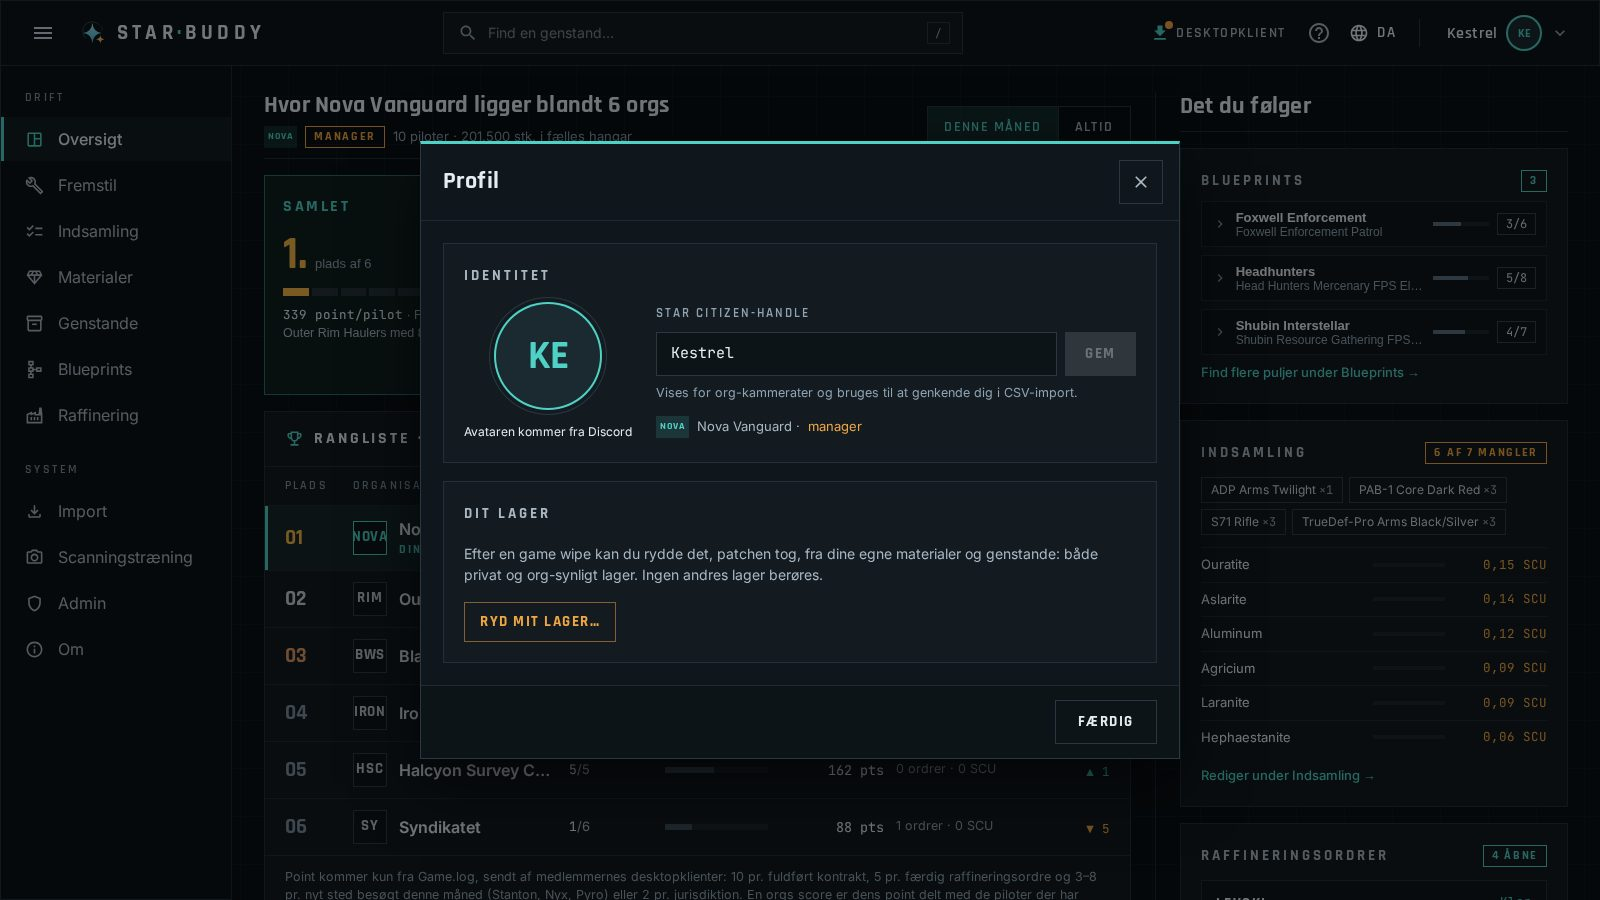
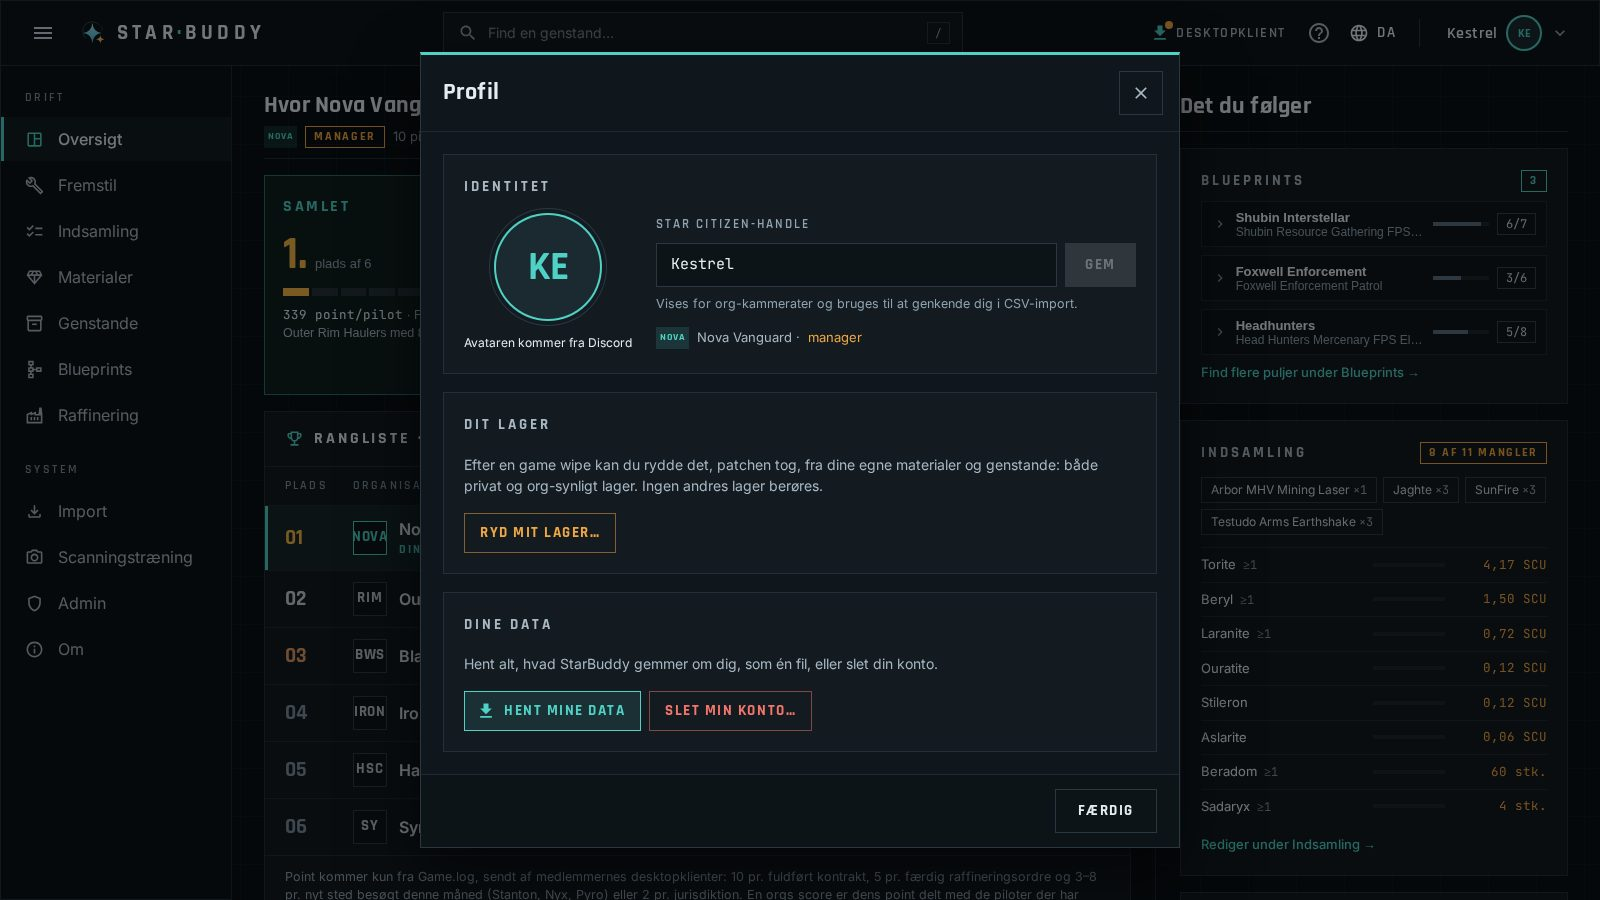
Profile: download my data, and delete my account
GET /api/me/export returns everything kept about the member as one JSON
file, without secrets. DELETE /api/me (confirm: DELETE) removes the
account and all that is theirs, screenshots on disk included, and asks
UDI to delete their StarLabels/StarConfig settings. Additive API only.
Help en+da and the profile screenshot follow.

Claude-Session: https://claude.ai/code/session_01N8m5xeVdG9FyChw6HwAHkV

diff --git a/frontend/src/components/YourDataSection.tsx b/frontend/src/components/YourDataSection.tsx
@@ -1,0 +1,93 @@
+import { useState } from 'react'
+import { useMutation } from '@tanstack/react-query'
+import { Trans, useTranslation } from 'react-i18next'
+import Alert from '@mui/material/Alert'
+import Box from '@mui/material/Box'
+import Button from '@mui/material/Button'
+import Dialog from '@mui/material/Dialog'
+import DialogActions from '@mui/material/DialogActions'
+import DialogContent from '@mui/material/DialogContent'
+import DialogContentText from '@mui/material/DialogContentText'
+import DialogTitle from '@mui/material/DialogTitle'
+import TextField from '@mui/material/TextField'
+import Typography from '@mui/material/Typography'
+import DownloadIcon from '@mui/icons-material/Download'
+import { api } from '../lib/api'
+import { hud } from '../theme'
+import { HudPanel } from './hud'
+
+/** The word the player must type to confirm. Not localized on purpose, as for clearing stock. */
+const CONFIRM_WORD = 'DELETE'
+
+/**
+ * The member's own data: everything StarBuddy keeps about them as one JSON
+ * file, or the whole account deleted.
+ */
+export function YourDataSection() {
+  const { t } = useTranslation()
+  const [open, setOpen] = useState(false)
+  const [confirmText, setConfirmText] = useState('')
+
+  const exportData = useMutation({
+    mutationFn: async () => {
+      const res = await api.get<Blob>('/api/me/export', { responseType: 'blob' })
+      const name = /filename="([^"]+)"/.exec(String(res.headers['content-disposition'] ?? ''))?.[1] ?? 'starbuddy.json'
+      const url = URL.createObjectURL(res.data)
+      const a = document.createElement('a')
+      a.href = url
+      a.download = name
+      a.click()
+      URL.revokeObjectURL(url)
+    },
+  })
+
+  const remove = useMutation({
+    mutationFn: async () => api.delete('/api/me', { data: { confirm: CONFIRM_WORD } }),
+    // Signed out with the account: start over on the sign-in page.
+    onSuccess: () => window.location.assign('/'),
+  })
+
+  const close = () => {
+    setOpen(false)
+    setConfirmText('')
+  }
+
+  return (
+    <HudPanel title={t('yourData.title')} component="h3" id="pm-data" raised>
+      <Typography variant="body2" sx={{ color: hud.textMuted, lineHeight: 1.55 }}>
+        {t('yourData.help')}
+      </Typography>
+      {exportData.isError && <Alert severity="error">{t('yourData.exportError')}</Alert>}
+      <Box sx={{ display: 'flex', gap: 1, flexWrap: 'wrap' }}>
+        <Button variant="outlined" startIcon={<DownloadIcon />} onClick={() => exportData.mutate()} disabled={exportData.isPending}>
+          {t('yourData.export')}
+        </Button>
+        <Button variant="outlined" color="error" onClick={() => setOpen(true)}>
+          {t('yourData.delete')}
+        </Button>
+      </Box>
+
+      <Dialog open={open} onClose={close} fullWidth maxWidth="sm">
+        <DialogTitle>{t('yourData.deleteTitle')}</DialogTitle>
+        <DialogContent>
+          <DialogContentText sx={{ mb: 2 }}>{t('yourData.deleteWhat')}</DialogContentText>
+          <DialogContentText sx={{ mb: 2 }}>
+            <Trans i18nKey="yourData.deleteConfirm" values={{ word: CONFIRM_WORD }} components={{ strong: <strong /> }} />
+          </DialogContentText>
+          <TextField fullWidth label={t('admin.typeWord', { word: CONFIRM_WORD })} value={confirmText} onChange={(e) => setConfirmText(e.target.value)} />
+          {remove.isError && (
+            <Alert severity="error" sx={{ mt: 2 }}>
+              {t('yourData.deleteError')}
+            </Alert>
+          )}
+        </DialogContent>
+        <DialogActions>
+          <Button onClick={close}>{t('common.cancel')}</Button>
+          <Button color="error" variant="contained" disabled={confirmText !== CONFIRM_WORD || remove.isPending} onClick={() => remove.mutate()}>
+            {remove.isPending ? t('yourData.deleting') : t('yourData.deleteFinal')}
+          </Button>
+        </DialogActions>
+      </Dialog>
+    </HudPanel>
+  )
+}

diff --git a/frontend/src/components/ProfileDialog.tsx b/frontend/src/components/ProfileDialog.tsx
@@ -16,6 +16,7 @@ import type { Me } from '../lib/types'
 import { fonts, hud } from '../theme'
 import { HudAvatar, HudPanel, OrgTag } from './hud'
 import { OwnStockSection } from './OwnStockSection'
+import { YourDataSection } from './YourDataSection'
 
 const labelSx = {
   fontFamily: fonts.display,
@@ -132,6 +133,7 @@ export function ProfileDialog({ me, open, onClose }: { me: Me; open: boolean; on
       <Box sx={{ p: 2.75, display: 'flex', flexDirection: 'column', gap: 2.25, overflowY: 'auto' }}>
         <IdentitySection me={me} />
         <OwnStockSection />
+        <YourDataSection />
       </Box>
       <Box sx={{ display: 'flex', justifyContent: 'flex-end', py: 1.75, px: 2.75, borderTop: `1px solid ${hud.lineSoft}`, bgcolor: hud.well }}>
         <Button variant="outlined" color="inherit" onClick={onClose} sx={{ height: 44, px: 2.75 }}>

diff --git a/backend/app/Http/Controllers/AccountController.php b/backend/app/Http/Controllers/AccountController.php
@@ -1,0 +1,102 @@
+<?php
+
+namespace App\Http\Controllers;
+
+use App\Models\User;
+use Illuminate\Http\Request;
+use Illuminate\Support\Facades\Auth;
+use Illuminate\Support\Facades\DB;
+use Illuminate\Support\Facades\Http;
+use Illuminate\Support\Facades\Storage;
+
+/**
+ * A member's own data: all of it as one JSON file, or the whole account
+ * gone. Not needed for a hobby community, but a good service all the same.
+ */
+class AccountController extends Controller
+{
+    /** Tables that hold a member's own rows in user_id. */
+    private const OWN_TABLES = [
+        'blueprint_owned', 'craft_targets', 'ingest_events', 'item_stacks', 'locations',
+        'org_members', 'refinery_orders', 'resource_stacks', 'score_events',
+        'screenshot_submissions', 'tracked_pools', 'user_game_accounts', 'user_presence',
+    ];
+
+    /** Secrets and internals that never leave the server, even to their owner. */
+    private const HIDDEN = ['password', 'remember_token', 'udi_link_token', 'image_path', 'token'];
+
+    /** GET /api/me/export: everything StarBuddy keeps about the member, as a download. */
+    public function export(Request $request)
+    {
+        $user = $request->user();
+        $strip = fn ($row) => array_diff_key((array) $row, array_flip(self::HIDDEN));
+
+        $tables = [];
+        foreach (self::OWN_TABLES as $table) {
+            $tables[$table] = DB::table($table)->where('user_id', $user->id)->orderBy('id')->get()->map($strip)->all();
+        }
+        $tables['org_members'] = array_map(
+            fn ($row) => $row + ['org_name' => DB::table('orgs')->where('id', $row['org_id'])->value('name')],
+            $tables['org_members'],
+        );
+        $tables['stock_transfers'] = DB::table('stock_transfers')
+            ->where('user_id', $user->id)->orWhere('to_user_id', $user->id)->orderBy('id')->get()->map($strip)->all();
+        $tables['paired_devices'] = DB::table('personal_access_tokens')
+            ->where('tokenable_type', User::class)->where('tokenable_id', $user->id)
+            ->orderBy('id')->get(['name', 'last_used_at', 'created_at', 'expires_at'])->map($strip)->all();
+        $tables['sessions'] = DB::table('sessions')->where('user_id', $user->id)
+            ->get(['ip_address', 'user_agent', 'last_activity'])->map($strip)->all();
+
+        $data = [
+            'exported_at' => now()->toIso8601String(),
+            'instance' => config('app.url'),
+            'account' => $strip($user->getAttributes()) + ['udi_linked' => (bool) $user->udi_link_token],
+            'data' => $tables,
+        ];
+
+        return response()->json($data, 200, [
+            'Content-Disposition' => 'attachment; filename="starbuddy-'.$user->id.'-'.now()->format('Ymd').'.json"',
+        ], JSON_PRETTY_PRINT | JSON_UNESCAPED_UNICODE | JSON_UNESCAPED_SLASHES);
+    }
+
+    /**
+     * DELETE /api/me: the account and everything that is the member's own.
+     * Their stock, blueprints, orders, points and screenshots go with it
+     * (cascades); shared records like audit logs keep the row without them.
+     */
+    public function destroy(Request $request)
+    {
+        $request->validate(['confirm' => ['required', 'in:DELETE']]);
+        $user = $request->user();
+
+        // The UDI settings too, as far as UDI can be reached: once the account
+        // is gone, nobody holds the token to ask again.
+        if ($user->udi_link_token) {
+            try {
+                Http::withToken($user->udi_link_token)->acceptJson()->timeout(5)
+                    ->delete(config('starbuddy.udi_url').'/api/starbuddy/profile');
+            } catch (\Throwable) {
+                // Unreachable: the settings there can no longer be fetched by anyone.
+            }
+        }
+
+        $images = DB::table('screenshot_submissions')->where('user_id', $user->id)->pluck('image_path')->filter()->all();
+
+        DB::transaction(function () use ($user) {
+            $user->tokens()->delete();
+            DB::table('sessions')->where('user_id', $user->id)->delete();
+            $user->delete();
+        });
+        Storage::disk('local')->delete($images);
+
+        // Not logout(): it saves a fresh remember token on the user, which
+        // would write the deleted account straight back.
+        Auth::guard('web')->forgetUser();
+        if ($request->hasSession()) {
+            $request->session()->invalidate();
+            $request->session()->regenerateToken();
+        }
+
+        return response()->noContent();
+    }
+}

diff --git a/backend/tests/Feature/AccountTest.php b/backend/tests/Feature/AccountTest.php
@@ -1,0 +1,78 @@
+<?php
+
+namespace Tests\Feature;
+
+use App\Models\Org;
+use App\Models\User;
+use Illuminate\Foundation\Testing\RefreshDatabase;
+use Illuminate\Support\Facades\DB;
+use Illuminate\Support\Facades\Http;
+use Tests\TestCase;
+
+/** A member's own data: exported as one file, or deleted with the account. */
+class AccountTest extends TestCase
+{
+    use RefreshDatabase;
+
+    private function member(): array
+    {
+        $user = User::factory()->create(['discord_id' => '300', 'handle' => 'Kestrel', 'udi_link_token' => str_repeat('a', 43)]);
+        $other = User::factory()->create(['discord_id' => '301', 'handle' => 'Other']);
+        $org = Org::create(['name' => 'Syndikatet']);
+        $org->memberships()->attach($user->id, ['role' => 'member', 'status' => 'active']);
+        $org->memberships()->attach($other->id, ['role' => 'manager', 'status' => 'active']);
+        $user->createToken('Gaming PC');
+
+        return [$user, $other, $org];
+    }
+
+    public function test_the_export_holds_the_members_data_and_no_secrets(): void
+    {
+        [$user] = $this->member();
+
+        $res = $this->actingAs($user)->get('/api/me/export')->assertOk();
+        $this->assertStringContainsString('attachment; filename="starbuddy-', $res->headers->get('Content-Disposition'));
+        $res->assertJsonPath('account.handle', 'Kestrel')
+            ->assertJsonPath('account.udi_linked', true)
+            ->assertJsonPath('data.org_members.0.org_name', 'Syndikatet')
+            ->assertJsonPath('data.paired_devices.0.name', 'Gaming PC');
+
+        $body = $res->getContent();
+        $this->assertStringNotContainsString(str_repeat('a', 43), $body);
+        $this->assertStringNotContainsString('"password"', $body);
+        $this->assertStringNotContainsString('Other', $body);
+    }
+
+    public function test_deleting_the_account_takes_its_data_and_the_udi_settings(): void
+    {
+        config(['starbuddy.udi_url' => 'https://udi.test']);
+        Http::fake(['udi.test/*' => Http::response(null, 204)]);
+        [$user, $other, $org] = $this->member();
+
+        // Only on purpose.
+        $this->actingAs($user)->deleteJson('/api/me')->assertUnprocessable();
+        $this->actingAs($user)->deleteJson('/api/me', ['confirm' => 'yes'])->assertUnprocessable();
+        $this->assertModelExists($user);
+
+        $this->actingAs($user)->deleteJson('/api/me', ['confirm' => 'DELETE'])->assertNoContent();
+
+        $this->assertModelMissing($user);
+        $this->assertSame(0, DB::table('personal_access_tokens')->where('tokenable_id', $user->id)->count());
+        $this->assertSame(0, DB::table('org_members')->where('user_id', $user->id)->count());
+        Http::assertSent(fn ($r) => $r->method() === 'DELETE' && $r->url() === 'https://udi.test/api/starbuddy/profile');
+
+        // Nobody else is touched.
+        $this->assertModelExists($other);
+        $this->assertSame(1, DB::table('org_members')->where('org_id', $org->id)->count());
+    }
+
+    public function test_an_unreachable_udi_does_not_keep_the_account(): void
+    {
+        config(['starbuddy.udi_url' => 'https://udi.test']);
+        Http::fake(['udi.test/*' => Http::response(null, 503)]);
+        [$user] = $this->member();
+
+        $this->actingAs($user)->deleteJson('/api/me', ['confirm' => 'DELETE'])->assertNoContent();
+        $this->assertModelMissing($user);
+    }
+}

diff --git a/backend/routes/api.php b/backend/routes/api.php
@@ -35,6 +35,9 @@ Route::middleware('auth:sanctum')->group(function () {
     Route::delete('me/udi-link', [\App\Http\Controllers\UdiLinkController::class, 'destroy']);
     Route::put('me/main-org', [\App\Http\Controllers\OrgController::class, 'setMain']);
     Route::patch('me', [\App\Http\Controllers\ProfileController::class, 'update']);
+    // The member's own data, as one file, or the whole account gone.
+    Route::get('me/export', [\App\Http\Controllers\AccountController::class, 'export'])->middleware('throttle:6,1');
+    Route::delete('me', [\App\Http\Controllers\AccountController::class, 'destroy'])->middleware('throttle:6,1');
 
     Route::get('dashboard', DashboardController::class);
     Route::get('dashboard/competition', \App\Http\Controllers\CompetitionController::class);

diff --git a/frontend/src/help/content/da/profile.md b/frontend/src/help/content/da/profile.md
@@ -22,3 +22,8 @@ Efter et game wipe rydder du det, patchen tog, fra dit eget lager:
 3. Skriv `CLEAR` og bekræft.
 
 Det fjerner både dine private og dine org-synlige stakke, og aldrig andres. Det kan ikke fortrydes.
+
+## Dine data
+
+- `Hent mine data` gemmer alt, hvad StarBuddy har om dig, som én JSON-fil: din konto, dit lager, dine blueprints, raffinaderiordrer, din indsamlingsliste, dine point, spilhændelser, org-medlemskaber, parrede klienter og log ind. Hemmeligheder, som forbindelsen til uniteddanes.org, er udeladt.
+- `Slet min konto…` sletter din konto og alt, hvad der er dit: lager, blueprints, raffinaderiordrer, indsamlingsliste, point, skærmbilleder, parrede klienter og org-medlemskaber. Dine StarLabels- og StarConfig-indstillinger på uniteddanes.org forsvinder også, og filerne i din spilmappe bliver liggende. Skriv `DELETE` for at bekræfte. Det kan ikke fortrydes. Logger du ind med Discord igen senere, får du en ny, tom konto.

diff --git a/frontend/src/help/content/en/profile.md b/frontend/src/help/content/en/profile.md
@@ -22,3 +22,8 @@ After a game wipe, clear what the patch took from your own stock:
 3. Type `CLEAR` and confirm.
 
 This removes your private and org-visible stacks alike, and never anyone else's. It cannot be undone.
+
+## Your data
+
+- `Download my data` saves everything StarBuddy keeps about you as one JSON file: your account, stock, blueprints, refinery orders, gathering list, points, game events, org memberships, paired clients and sign-ins. Secrets, such as the link to uniteddanes.org, are left out.
+- `Delete my account…` deletes your account and everything that is yours: stock, blueprints, refinery orders, gathering list, points, screenshots, paired clients and org memberships. Your StarLabels and StarConfig settings at uniteddanes.org go too, and the files installed in your game folder stay. Type `DELETE` to confirm. It cannot be undone. If you sign in with Discord again later, you start a new, empty account.
